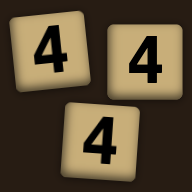
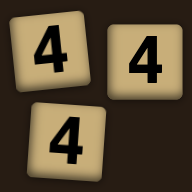
Carry the bottom 444dle tile out to the left
It was nudged from 0.09 to 0.05 of a tile last time, but the centring
correction folded into the same number ate most of that, so it barely moved
on screen. It goes to -0.4 now, a little under half a tile left of centre.

Past about -0.5 the three tiles read as an L down the left with an empty
right half rather than as a scattered triad, so this is roughly as far as
it goes while still looking dropped.

Changed region(s): [[0.125, 0.5312, 0.75, 0.9688]]

diff --git a/scripts/icons/main.ts b/scripts/icons/main.ts
@@ -29,7 +29,7 @@ const ART: Record<string, Art> = {
         { char: "4", lie: -6, dx: -0.02 },
         { char: "4", lie: 0, dx: 0.06, dy: 0.14 },
       ],
-      [{ char: "4", lie: 4, dx: 0.05, dy: 0.02 }],
+      [{ char: "4", lie: 4, dx: -0.4, dy: 0.02 }],
     ],
   },
 };
